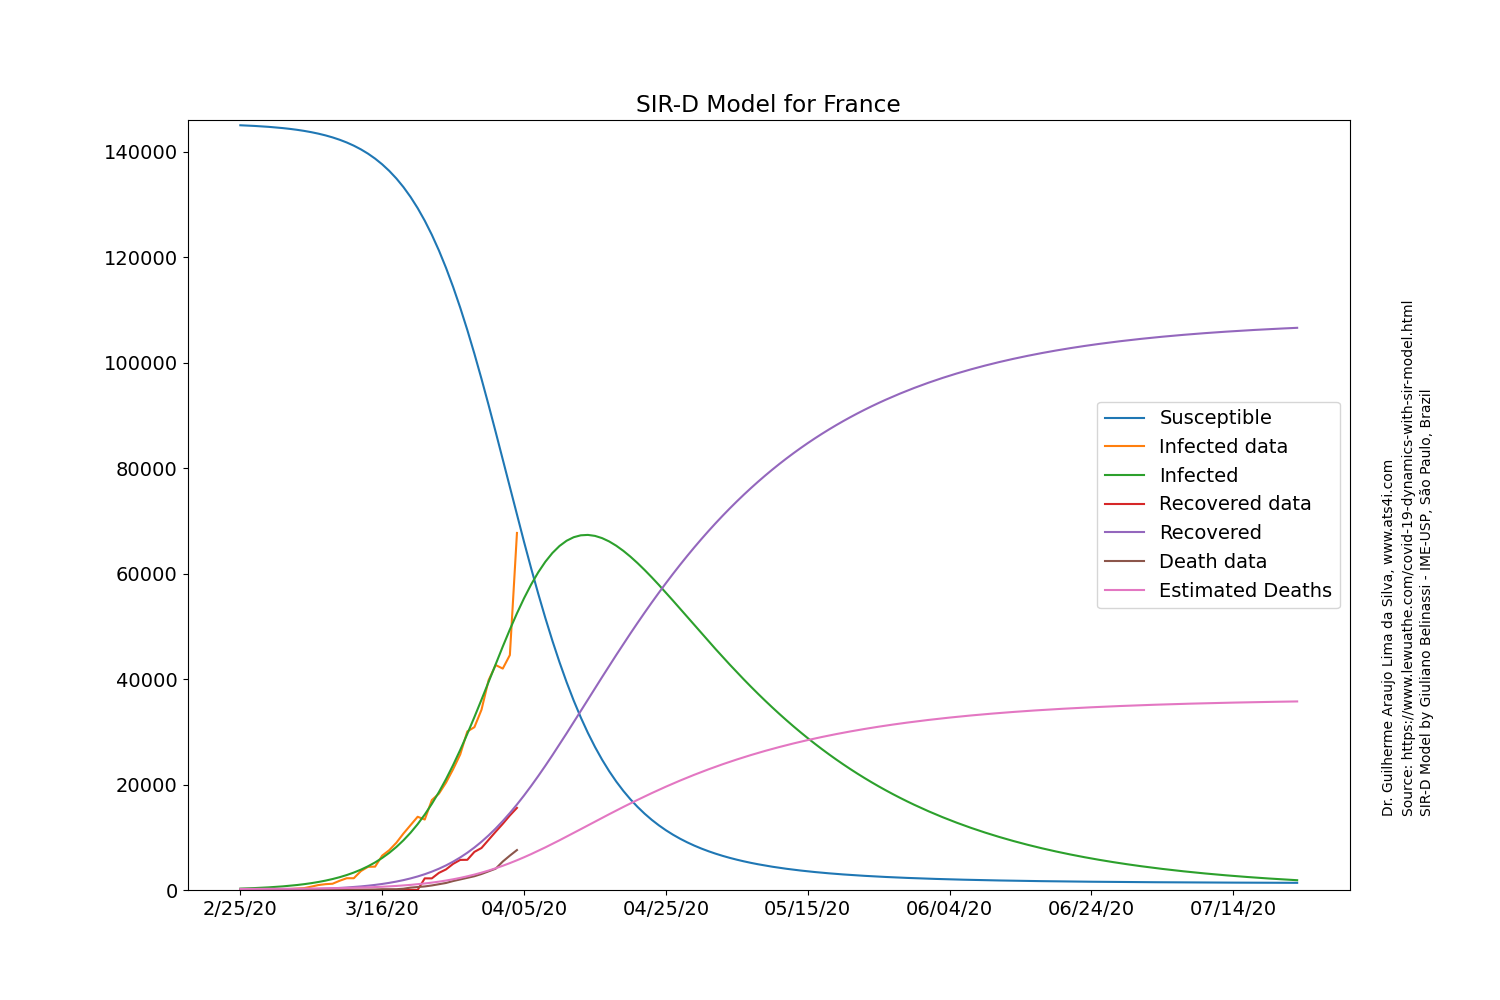
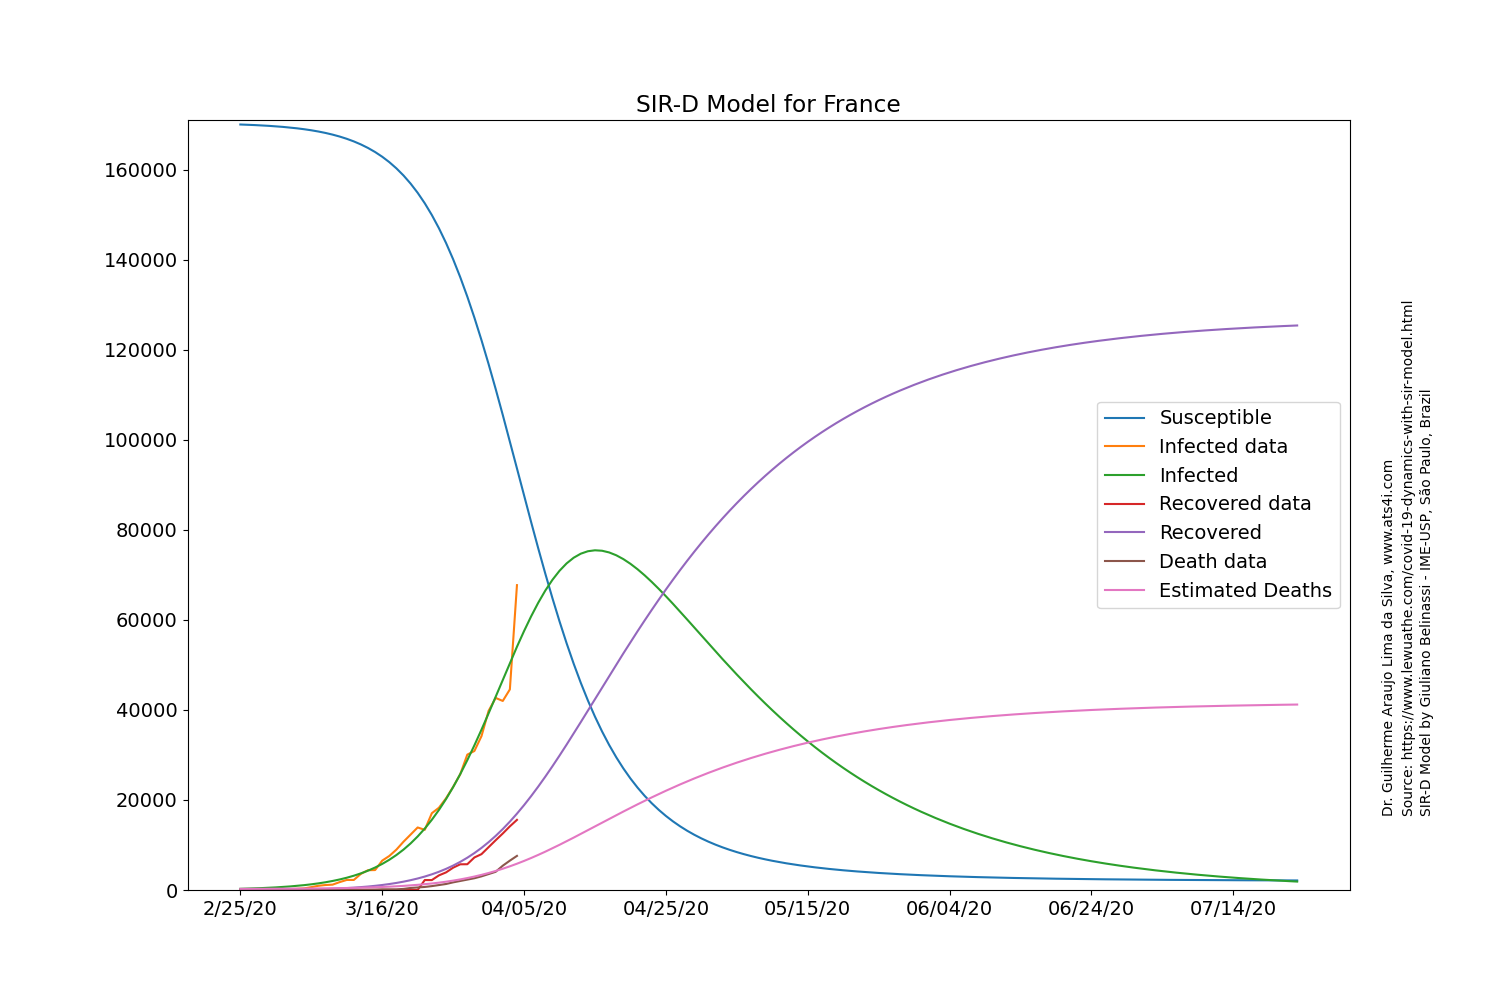
correct France

diff --git a/dataAndModelsCovid19.py b/dataAndModelsCovid19.py
@@ -78,10 +78,10 @@ def parse_arguments(country):
 
     if country1=="France":
         date="2/25/20"
-        s0=145e3
+        s0=170e3
         i0=265
-        r0=-50
-        k0=200
+        r0=-120
+        k0=250
 
     if country1=="United Kingdom":
         date="2/25/20"
